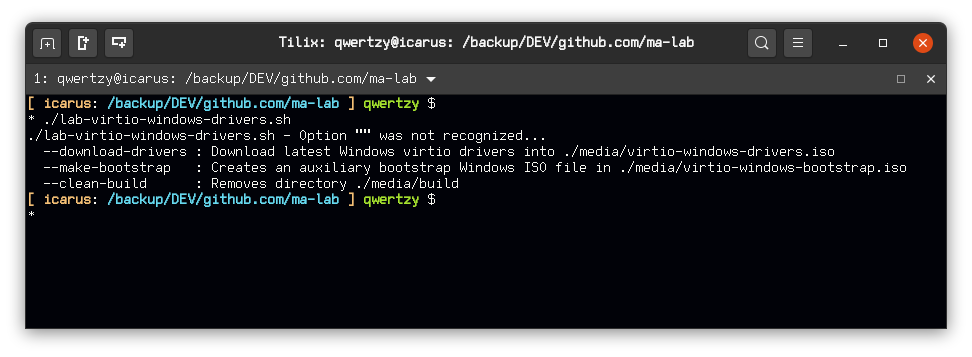
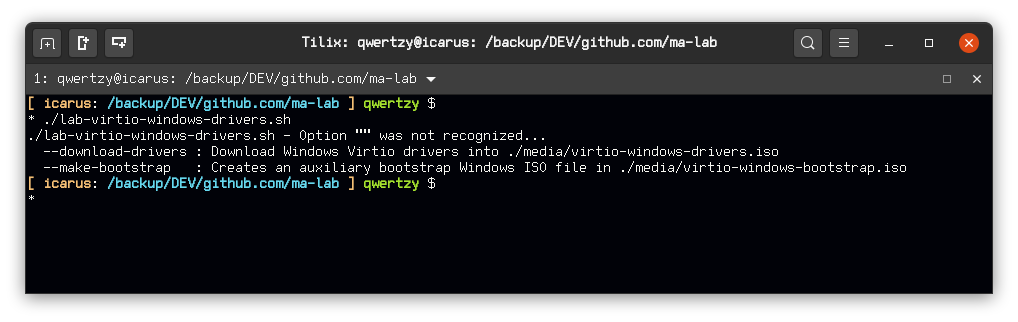
Windows 7 64 Installation automated

Changed region(s): [[0.0, 0.0621, 0.9877, 0.6211], [0.0309, 0.9006, 0.9877, 0.9317]]

diff --git a/README.md b/README.md
@@ -6,7 +6,7 @@ Lab using KVM and QEMU
 - Analysis: Windows 7 64 (GSP1RMCPRXFRER_EN_DVD)
 
 **Scripts**
-- `lab-virtio-windows-drivers.sh` : Downloads the latest available Windows virtio drivers and creates an auxiliary ISO file to be able to automate Windows guests installation. This script uses a file `autounattend.xml` which holds information for unnatended (automated) Windows installations without user interaction. You can use https://www.windowsafg.com/ website to create one for other Windows versions (the one included is for Windows 7 64 Bits). Then it just a matter of adding the necessary `<DriverPaths>` values to point Windows during installation to the CD containing the drivers.
+- `lab-virtio-windows-drivers.sh` : Downloads Windows virtio drivers (Some versions of Windows (7 64 Bits) needs drivers or won't detect the Hard Disk and will fail installation) and creates an auxiliary ISO file to be able to automate Windows guests installation. This script uses a file `autounattend.xml` which holds information for unnatended (automated) Windows installations without user interaction. You can use https://www.windowsafg.com/ website to create yours other Windows versions are supported -- you then have to manualy edit the file and add the necessary `<DriverPaths>` values to point Windows during installation to the auxiliary CD containing the drivers. The process currently is fully automated for Windows 7 64 (GSP1RMCPRXFRER_EN_DVD).
 
 ![](./screenshots/lab-virtio-windows-drivers.png)
 
@@ -16,11 +16,11 @@ Lab using KVM and QEMU
 
 ![](./screenshots/lab-network.png)
 
-- `lab-storage.sh` : Creates VM Hard Disk files, by default looks under directory vm for HDDs to build, specifically for a vm.settings file containing build variables
+- `lab-storage.sh` : Creates VM Hard Disk files, by default looks under directory vm for HDDs to build, specifically for a vm.settings file containing build variables. Everytime it's run it will format the HDD files!
 
 ![](./screenshots/lab-storage.png)
 
-- `get-windows-key.sh` : Scrapes Microsoft Windows https://docs.microsoft.com/en-us/windows-server/get-started/kmsclientkeys page for Windows Serial Keys and displays them in the terminal. <u>Serials provided by Microsoft</u>.
+- `get-windows-key.sh` : Scrapes Microsoft Windows https://docs.microsoft.com/en-us/windows-server/get-started/kmsclientkeys page for Windows Serial Keys and displays them in the terminal. **Serials provided by Microsoft**.
 
 ![](./screenshots/get-windows-key.png)
 
